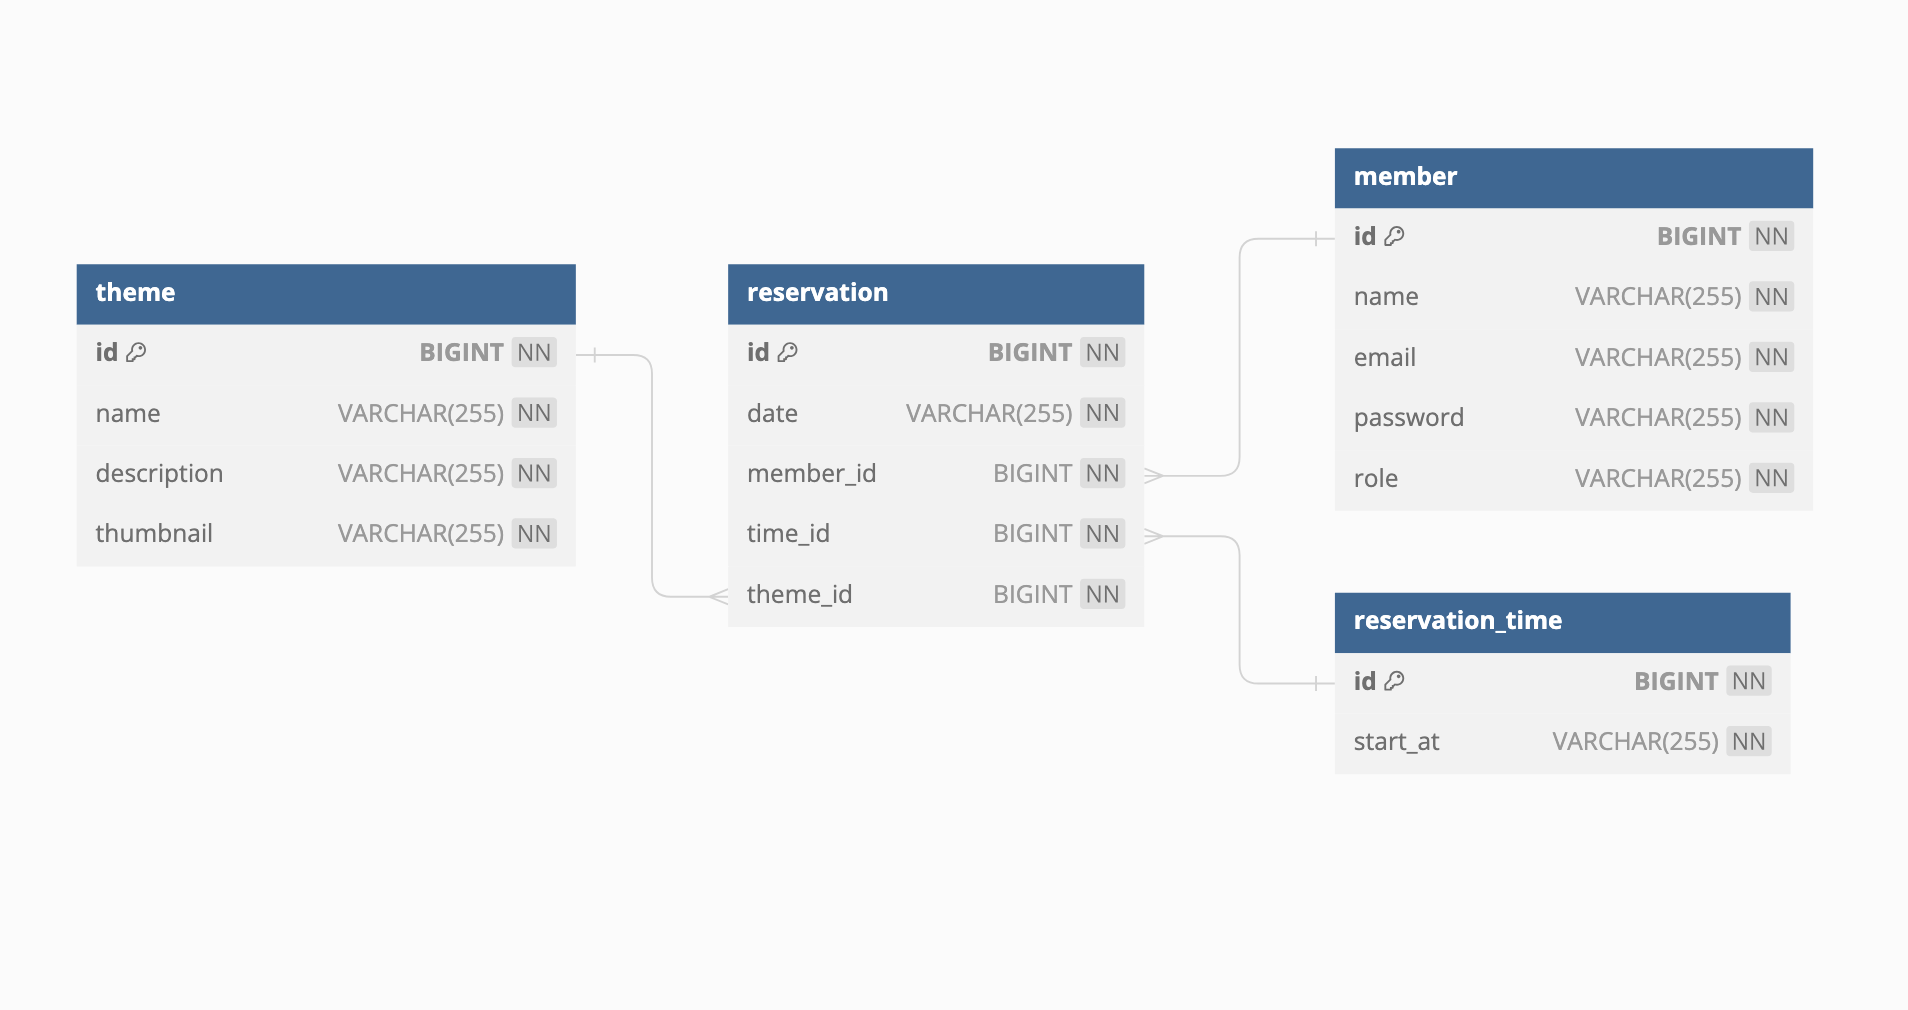
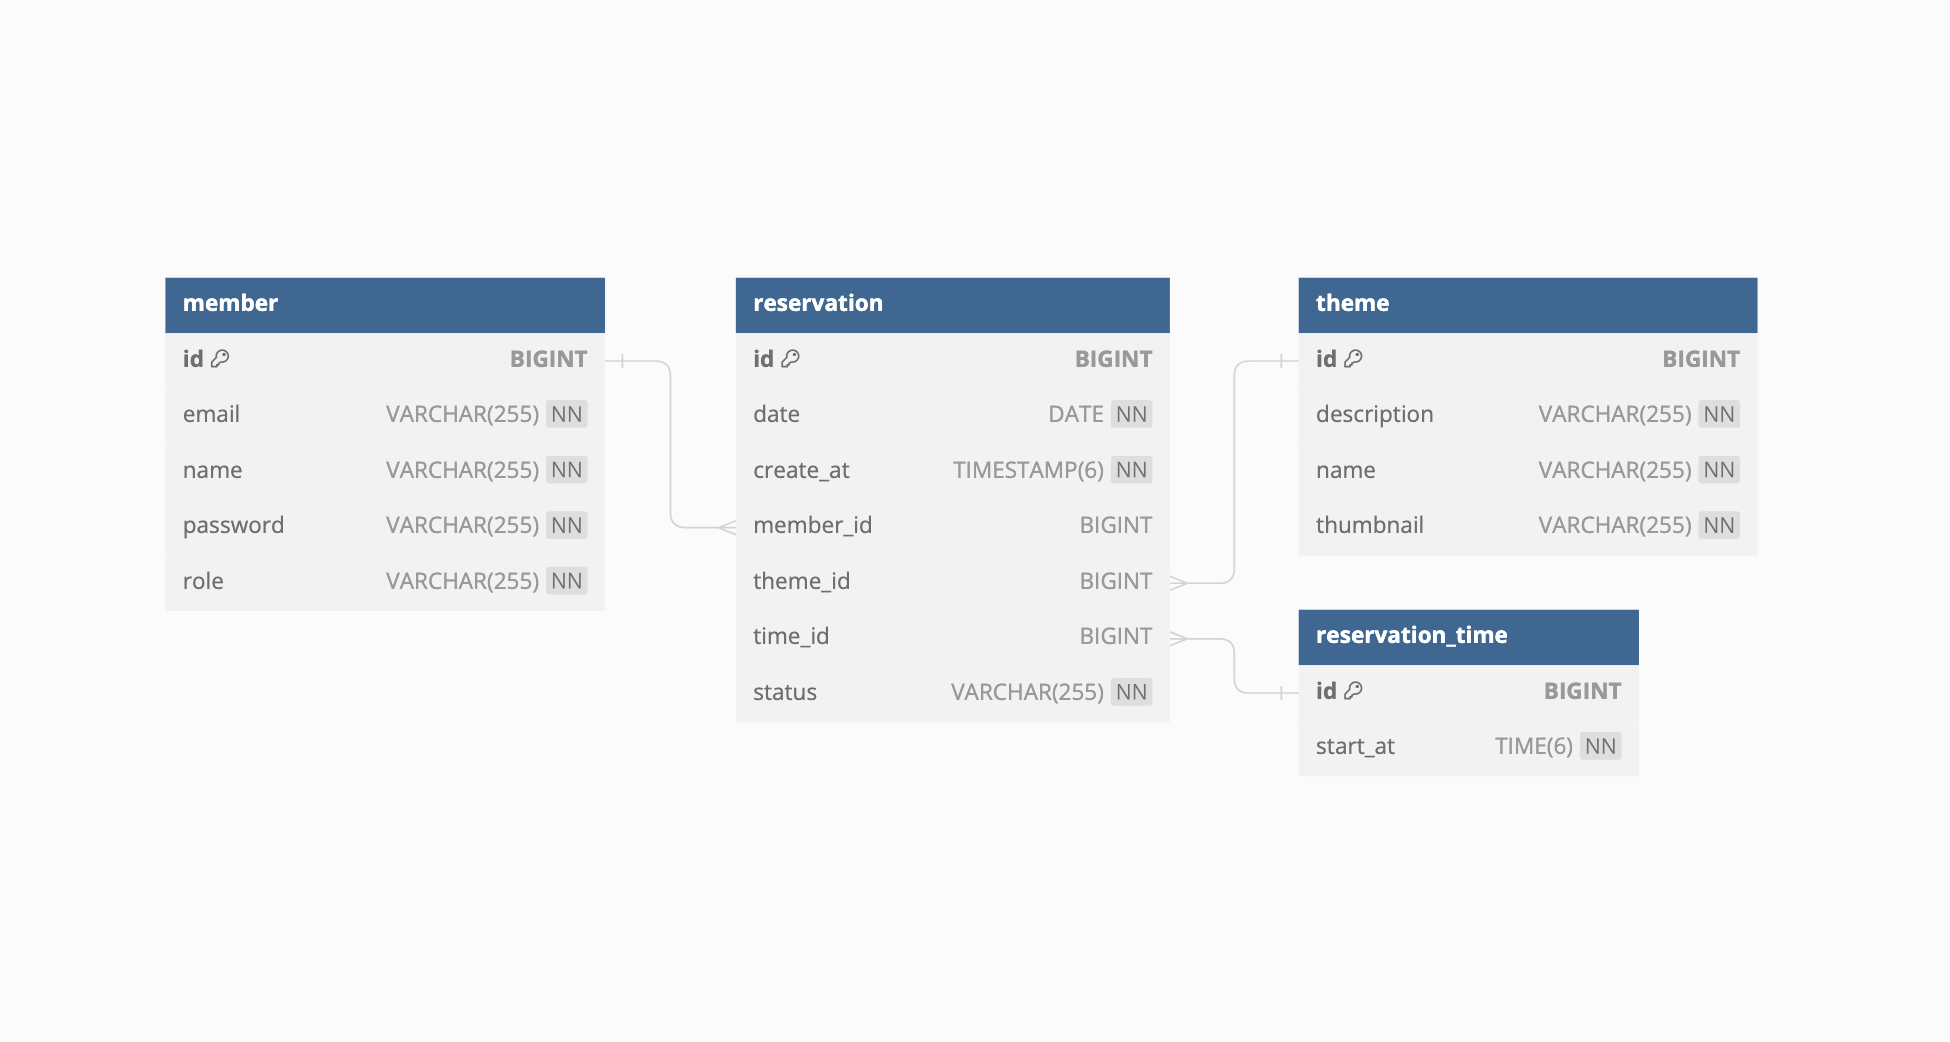
docs: API 명세 추가 및 erd 수정

diff --git a/README.md b/README.md
@@ -93,14 +93,14 @@
 | GET         | `/reservations/mine`                 | 로그인 회원의 예약 목록 조회  |                                                   | [List of MyReservationResponse](#List-of-MyReservationResponse)      |
 | GET         | `/reservations-mine`                 | 로그인 회원의 예약 목록 페이지 |                                                   | `templates/reservation-mine.html`                                    |
 
+| POST        | `/reservations/waiting`              | 예약 대기             | [MemberReservationRequest](#MemberReservationRequest)   | [ReservationResponse](#ReservationResponse)                          |
 ### ERD
 ![roomescape_waiting_erd](./roomescape_waiting_erd.png)
 
-### ReservationRequest
+### MemberReservationRequest
 
 ```json
 {
-  "name": "홍길동",
   "date": "2021-07-01",
   "timeId": 1,
   "themeId": 1
@@ -116,17 +116,20 @@ HTTP/1.1 201 Created
 ```json
 {
   "id": 1,
-  "name": "홍길동",
   "date": "2021-07-01",
-  "time": {
+  "member": {
     "id": 1,
-    "time": "10:00"
+    "name": "홍길동"
+  },
+  "time": {
+    "id": 2,
+    "startAt": "14:00"
   },
   "theme": {
     "id": 1,
     "name": "테마1",
     "description": "테마1 설명",
-    "thumbnail": "테마1 섬네일"
+    "thumbnail": "https://i.pinimg.com/236x/6e/bc/46/6ebc461a94a49f9ea3b8bbe2204145d4.jpg"
   }
 }
 ```
